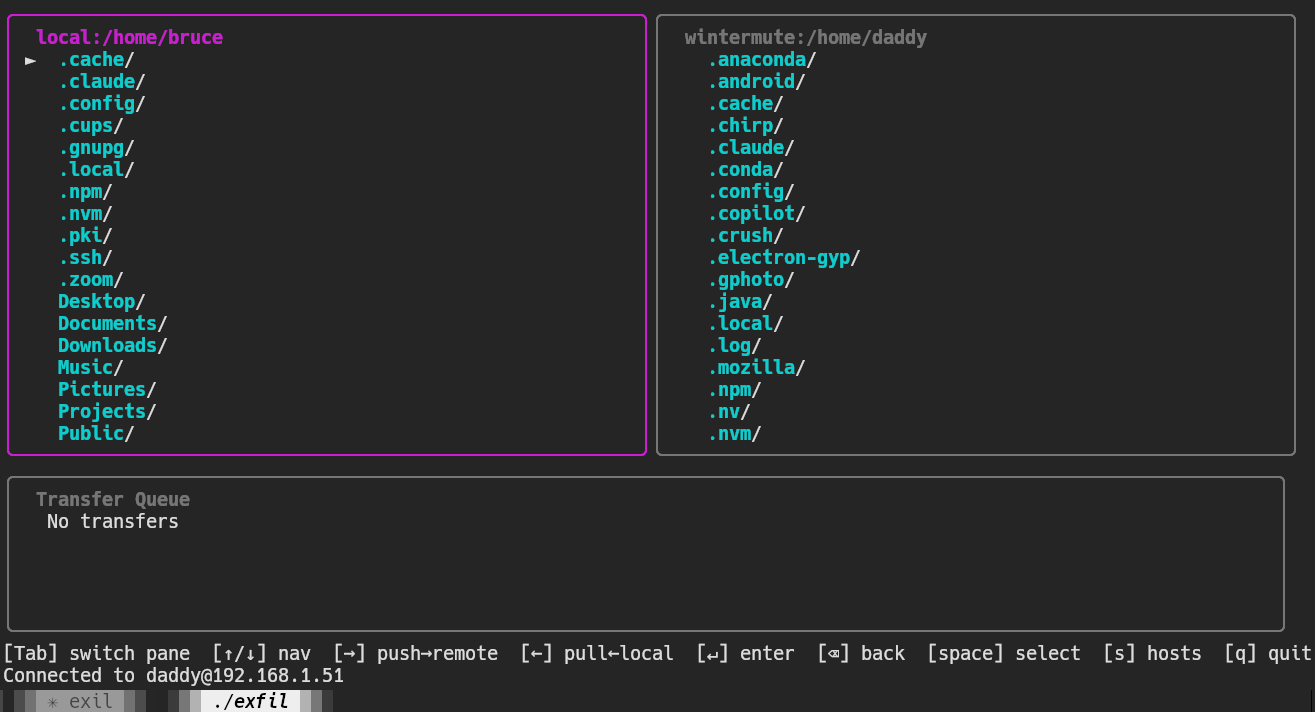
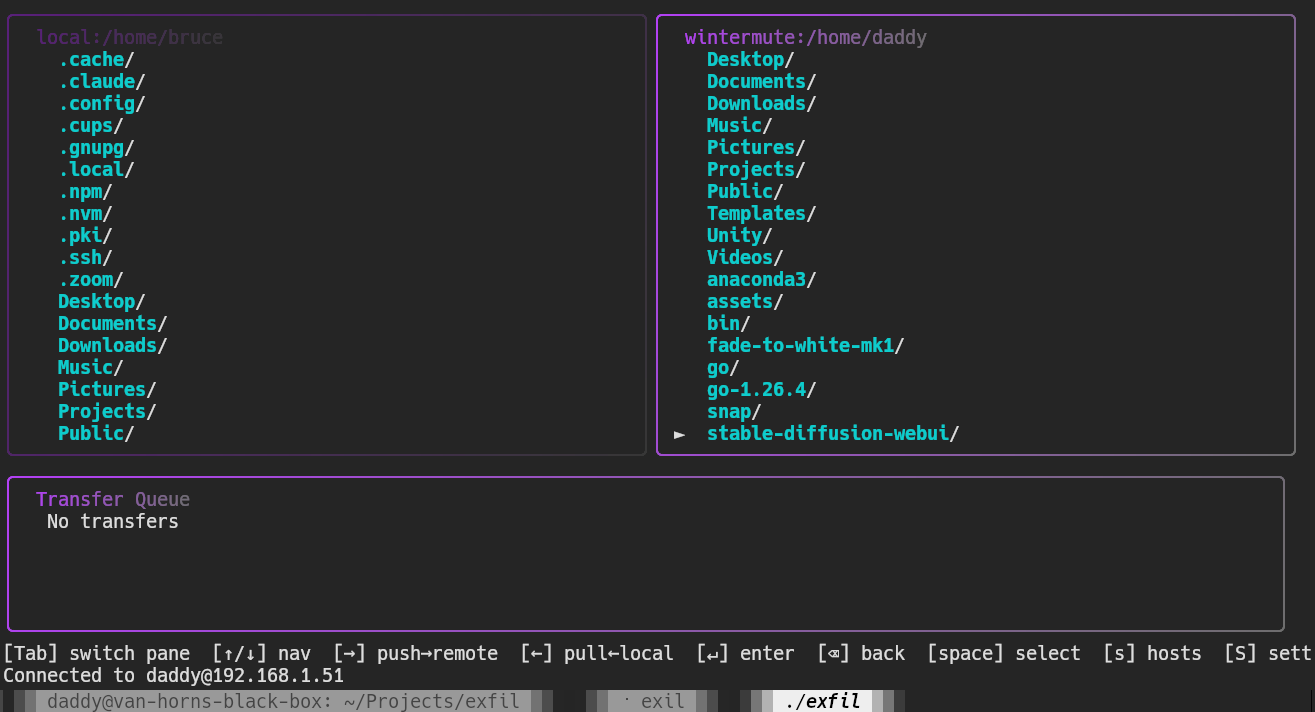
Update README: new screenshots, retitle for the lingo packs
About screen (with the gradient logo) now leads, followed by the main
dual-pane shot. New title reflects the lingo packs shipped earlier
(edgerunners/keyboard cowboys/corposlut, from secretsquirrel/
keyboardcowboy/corposlut) instead of the generic "cyberpunk" tagline.

diff --git a/README.md b/README.md
@@ -1,7 +1,9 @@
-# exfil — cyberpunk TUI SCP/SFTP client
+# exfil — scp client for edgerunners, keyboard cowboys, and corposluts alike
 
 [![CI](https://github.com/brucevanhorn2/exfil/actions/workflows/ci.yml/badge.svg)](https://github.com/brucevanhorn2/exfil/actions/workflows/ci.yml)
 [![License: MIT](https://img.shields.io/badge/License-MIT-yellow.svg)](LICENSE)
+
+![exfil about screen](assets/exfil-about.png)
 
 ![exfil screenshot](assets/exfil-screenshot.png)
 